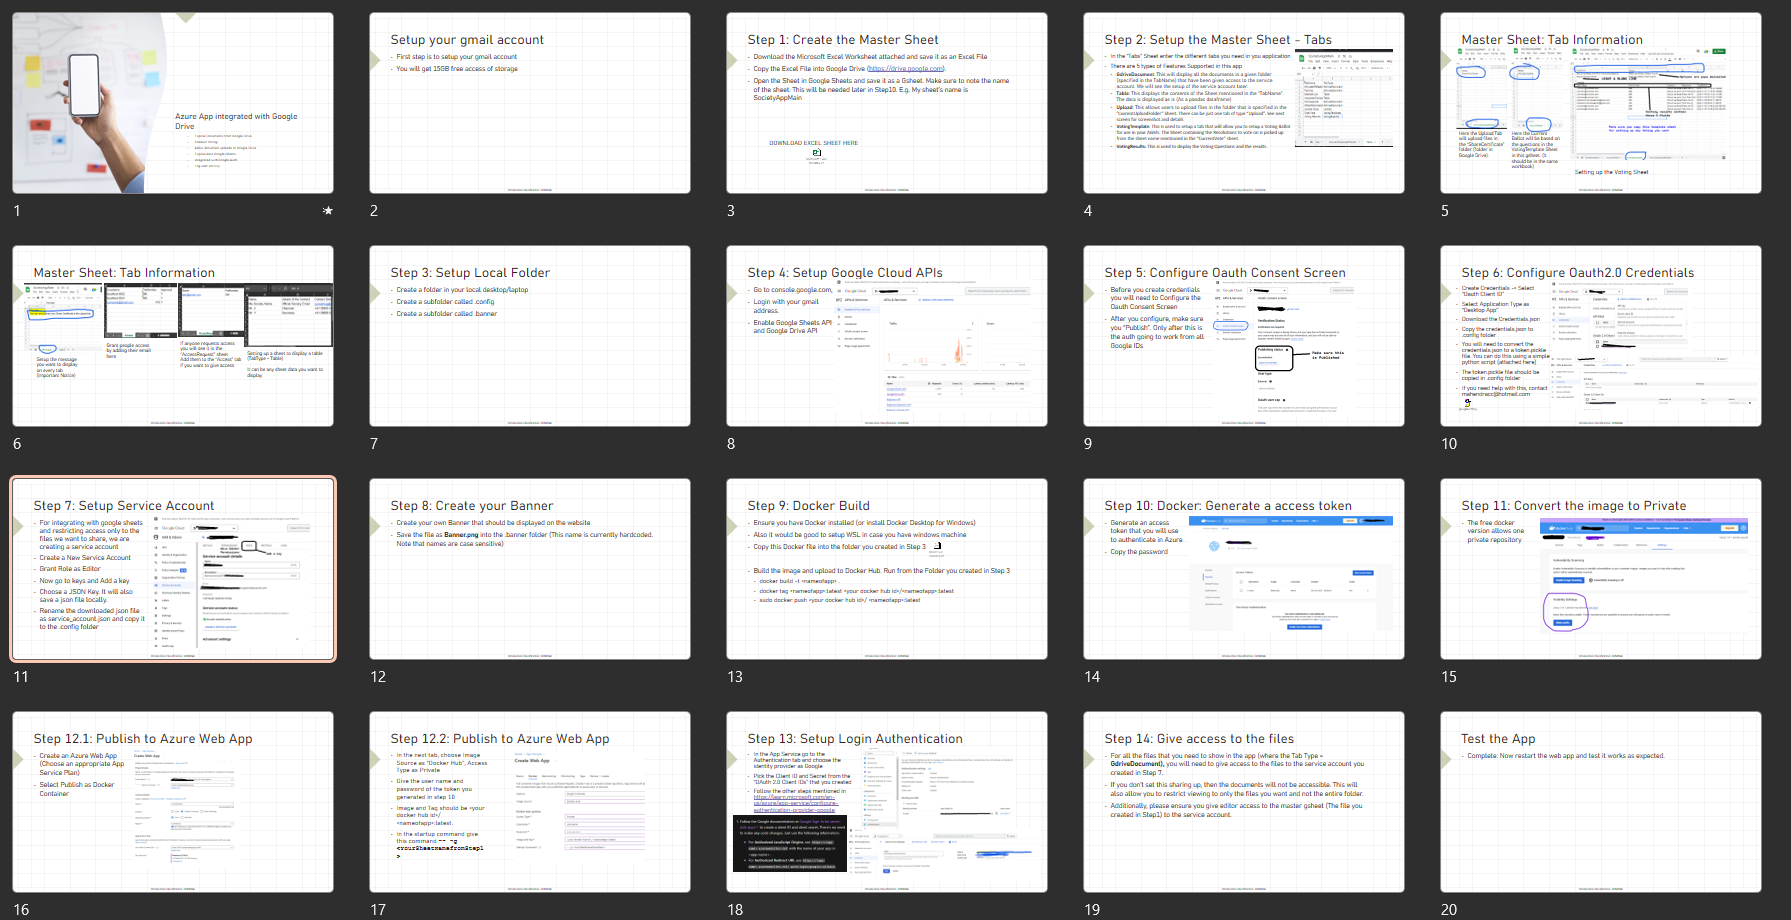
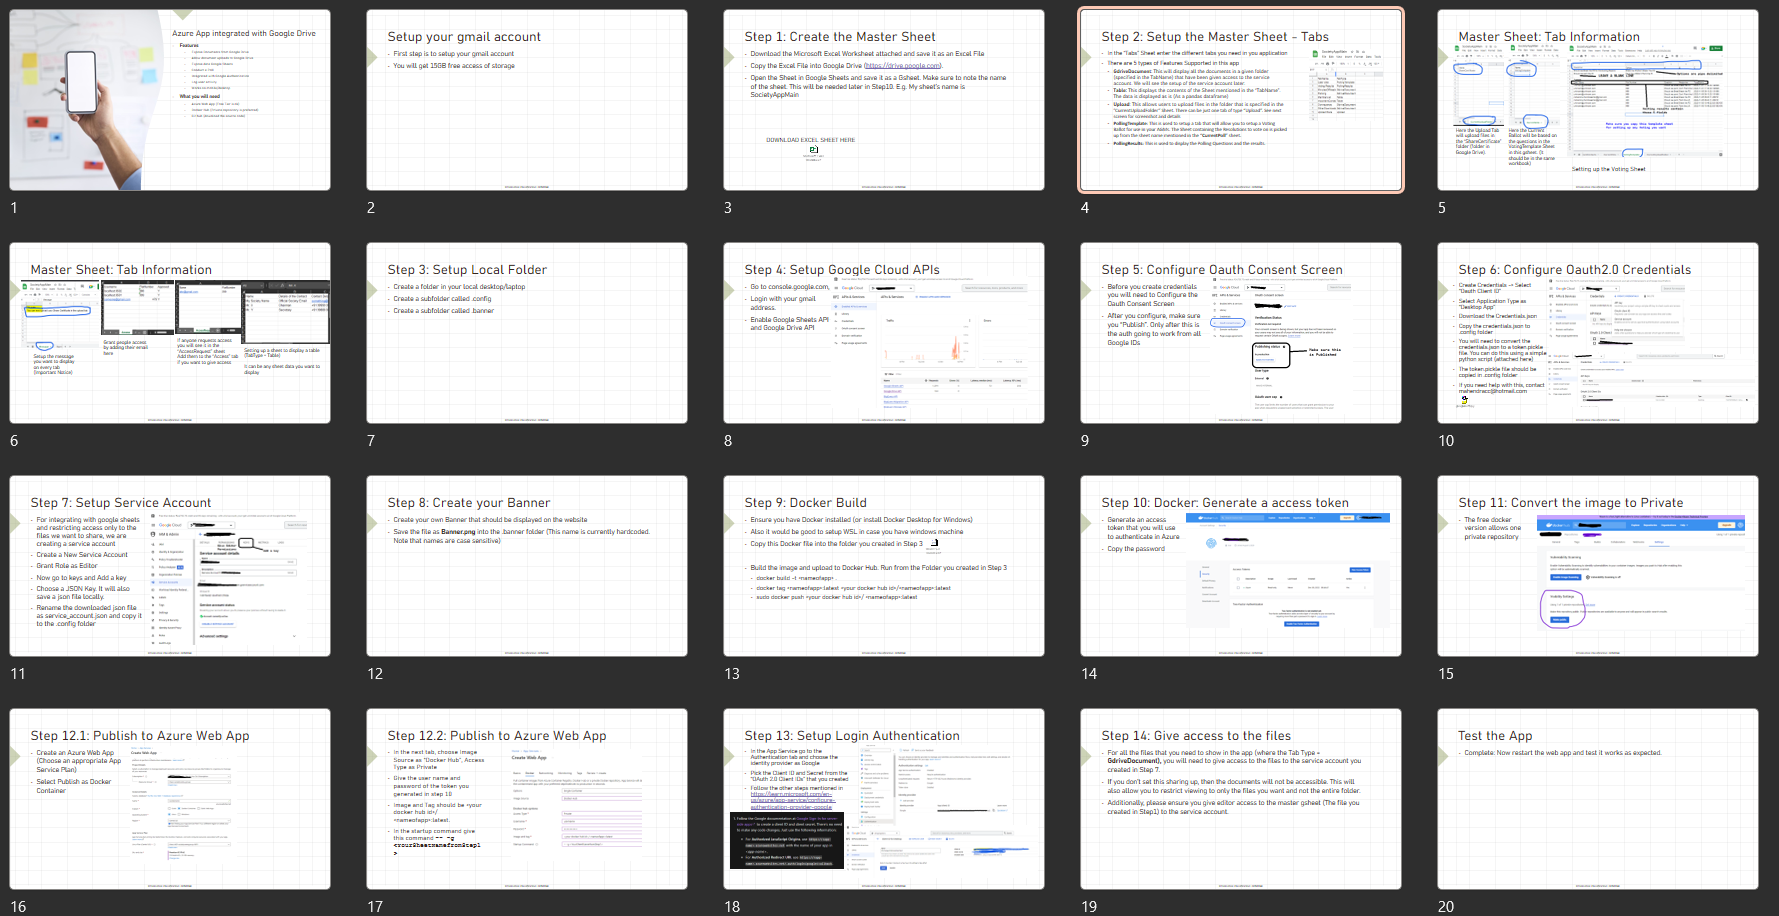
name changes

diff --git a/main.py b/main.py
@@ -90,12 +90,12 @@ def uploadTab():
 
         gdrive.upload_file(SheetName,os.path.join("",uploaded_file.name),flatNumber)
 
-def voting():
+def polling():
     with st.form(key='my_form'):
         st.error('Vote for the appropriate option:')
         email = st.text(displayUserName + ' -  Flat Number: '+flatNumber)
         try:
-            SheetName = gsheetData.get_gsheet(sh,"CurrentVote")['Name'][0]
+            SheetName = gsheetData.get_gsheet(sh,"CurrentPoll")['Name'][0]
         except(KeyError):
             SheetName = ""
         if SheetName == "":
@@ -118,9 +118,9 @@ def voting():
             for i in range(len(question)):
                 gsheetData.set_gsheet(sh,SheetName,[displayUserName,flatNumber,question[i],answer[i],str(currTime)])
             st.write("Thank you for your vote")  
-def votingOutput():
+def pollingOutput():
         try:
-            SheetName = gsheetData.get_gsheet(sh,"CurrentVote")['Name'][0]
+            SheetName = gsheetData.get_gsheet(sh,"CurrentPoll")['Name'][0]
         except(KeyError):
             SheetName = ""
         if SheetName != "":
@@ -167,10 +167,10 @@ else:
                 st.dataframe(gsheetData.get_gsheet(sh,tabList[i]), width=1500, height=1500)
             if tabTypeList[i] == "Upload":
                 uploadTab()
-            if tabTypeList[i] == "VotingTemplate":
-                voting()
-            if tabTypeList[i] == "VotingResults":
-                votingOutput()
+            if tabTypeList[i] == "PollingTemplate":
+                polling()
+            if tabTypeList[i] == "PollingResults":
+                pollingOutput()
 
 
     
